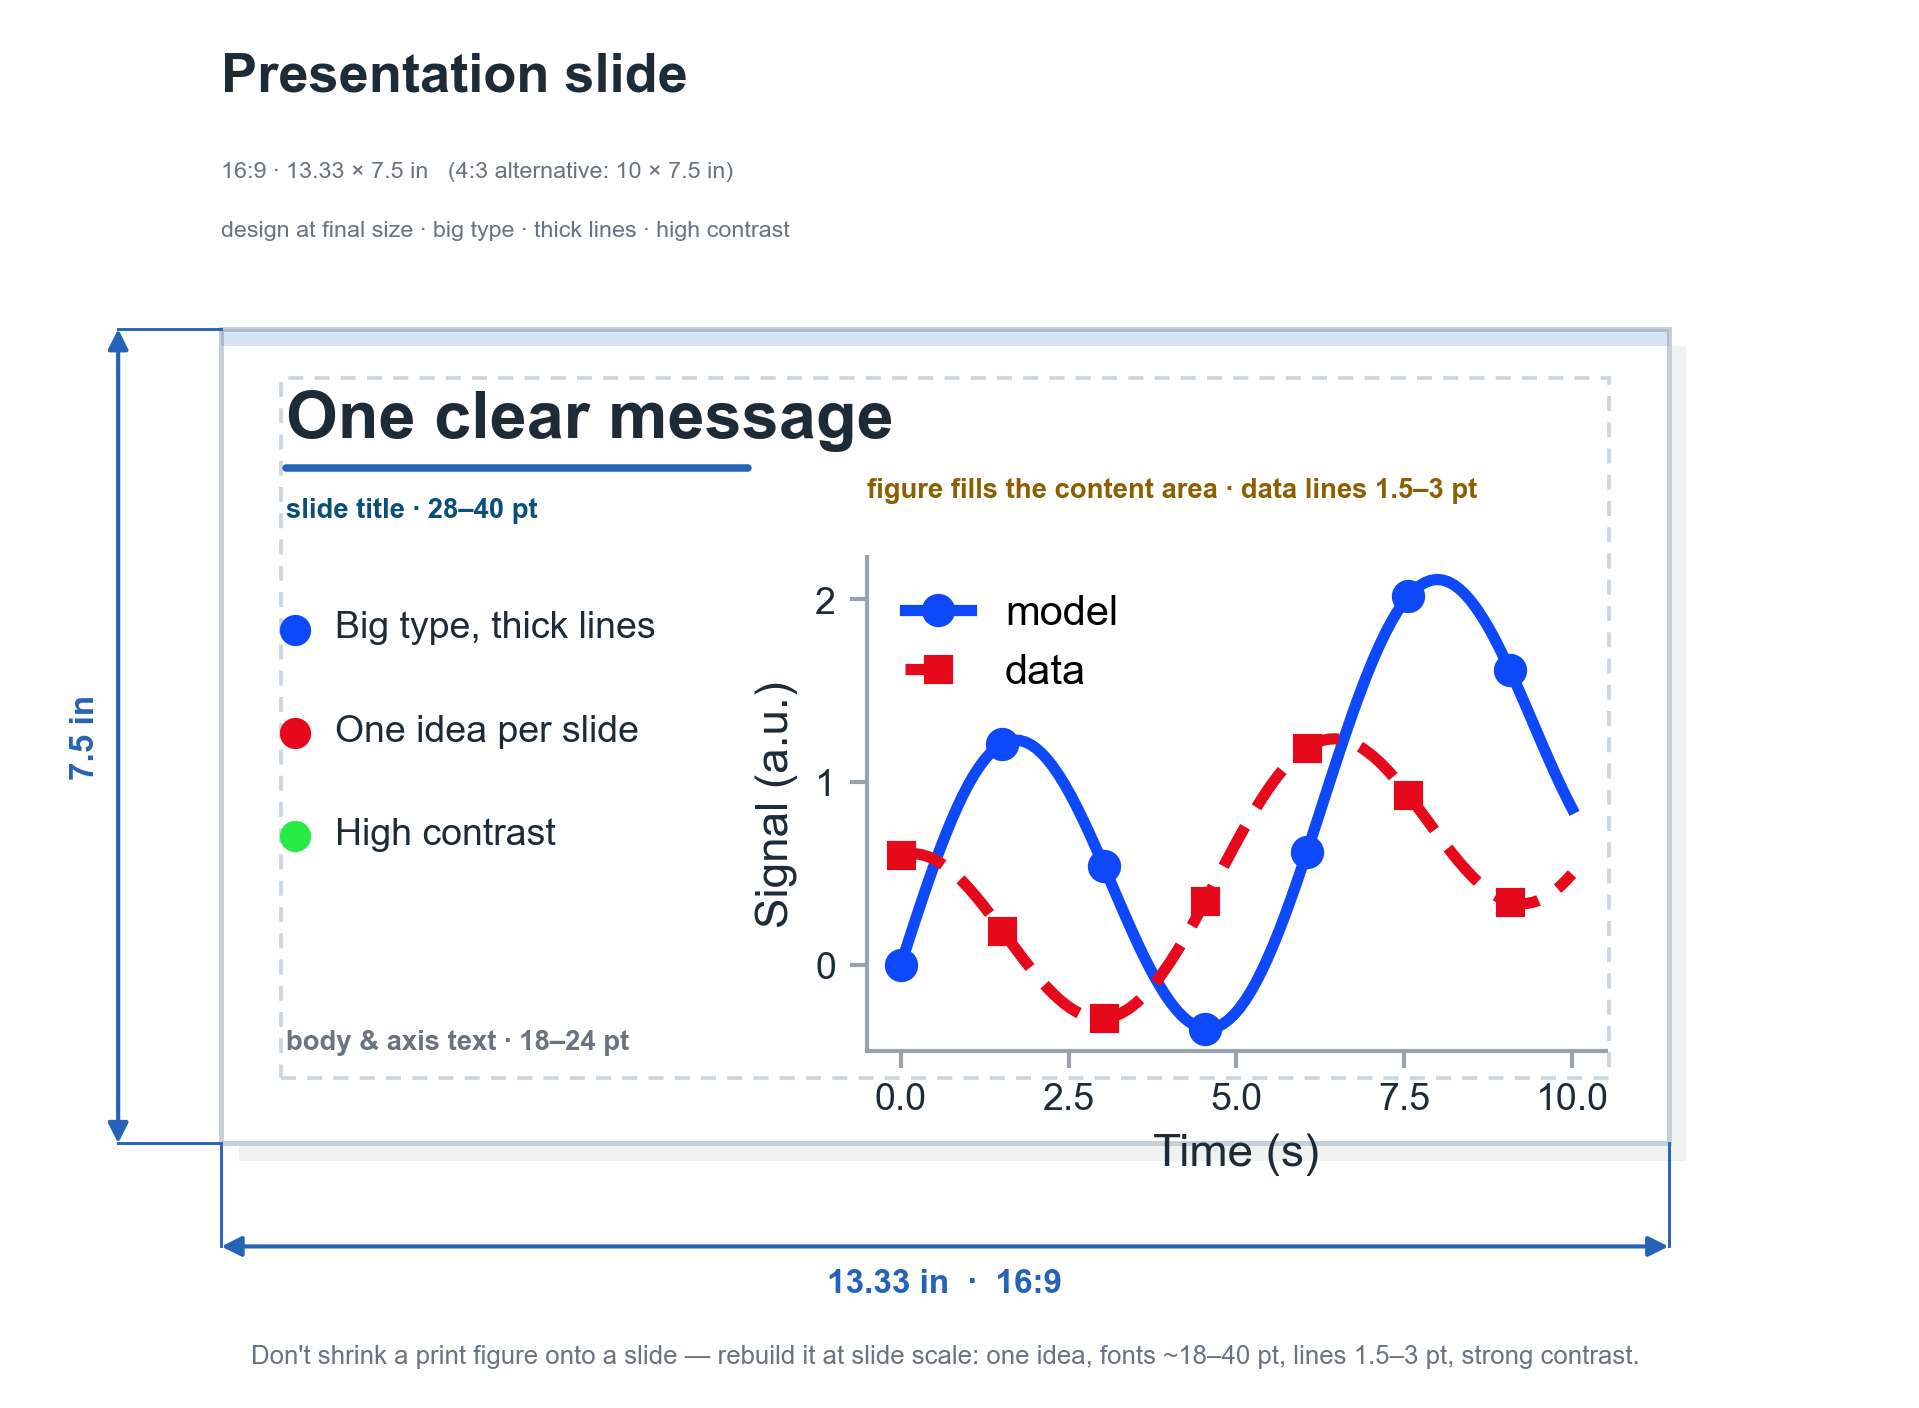
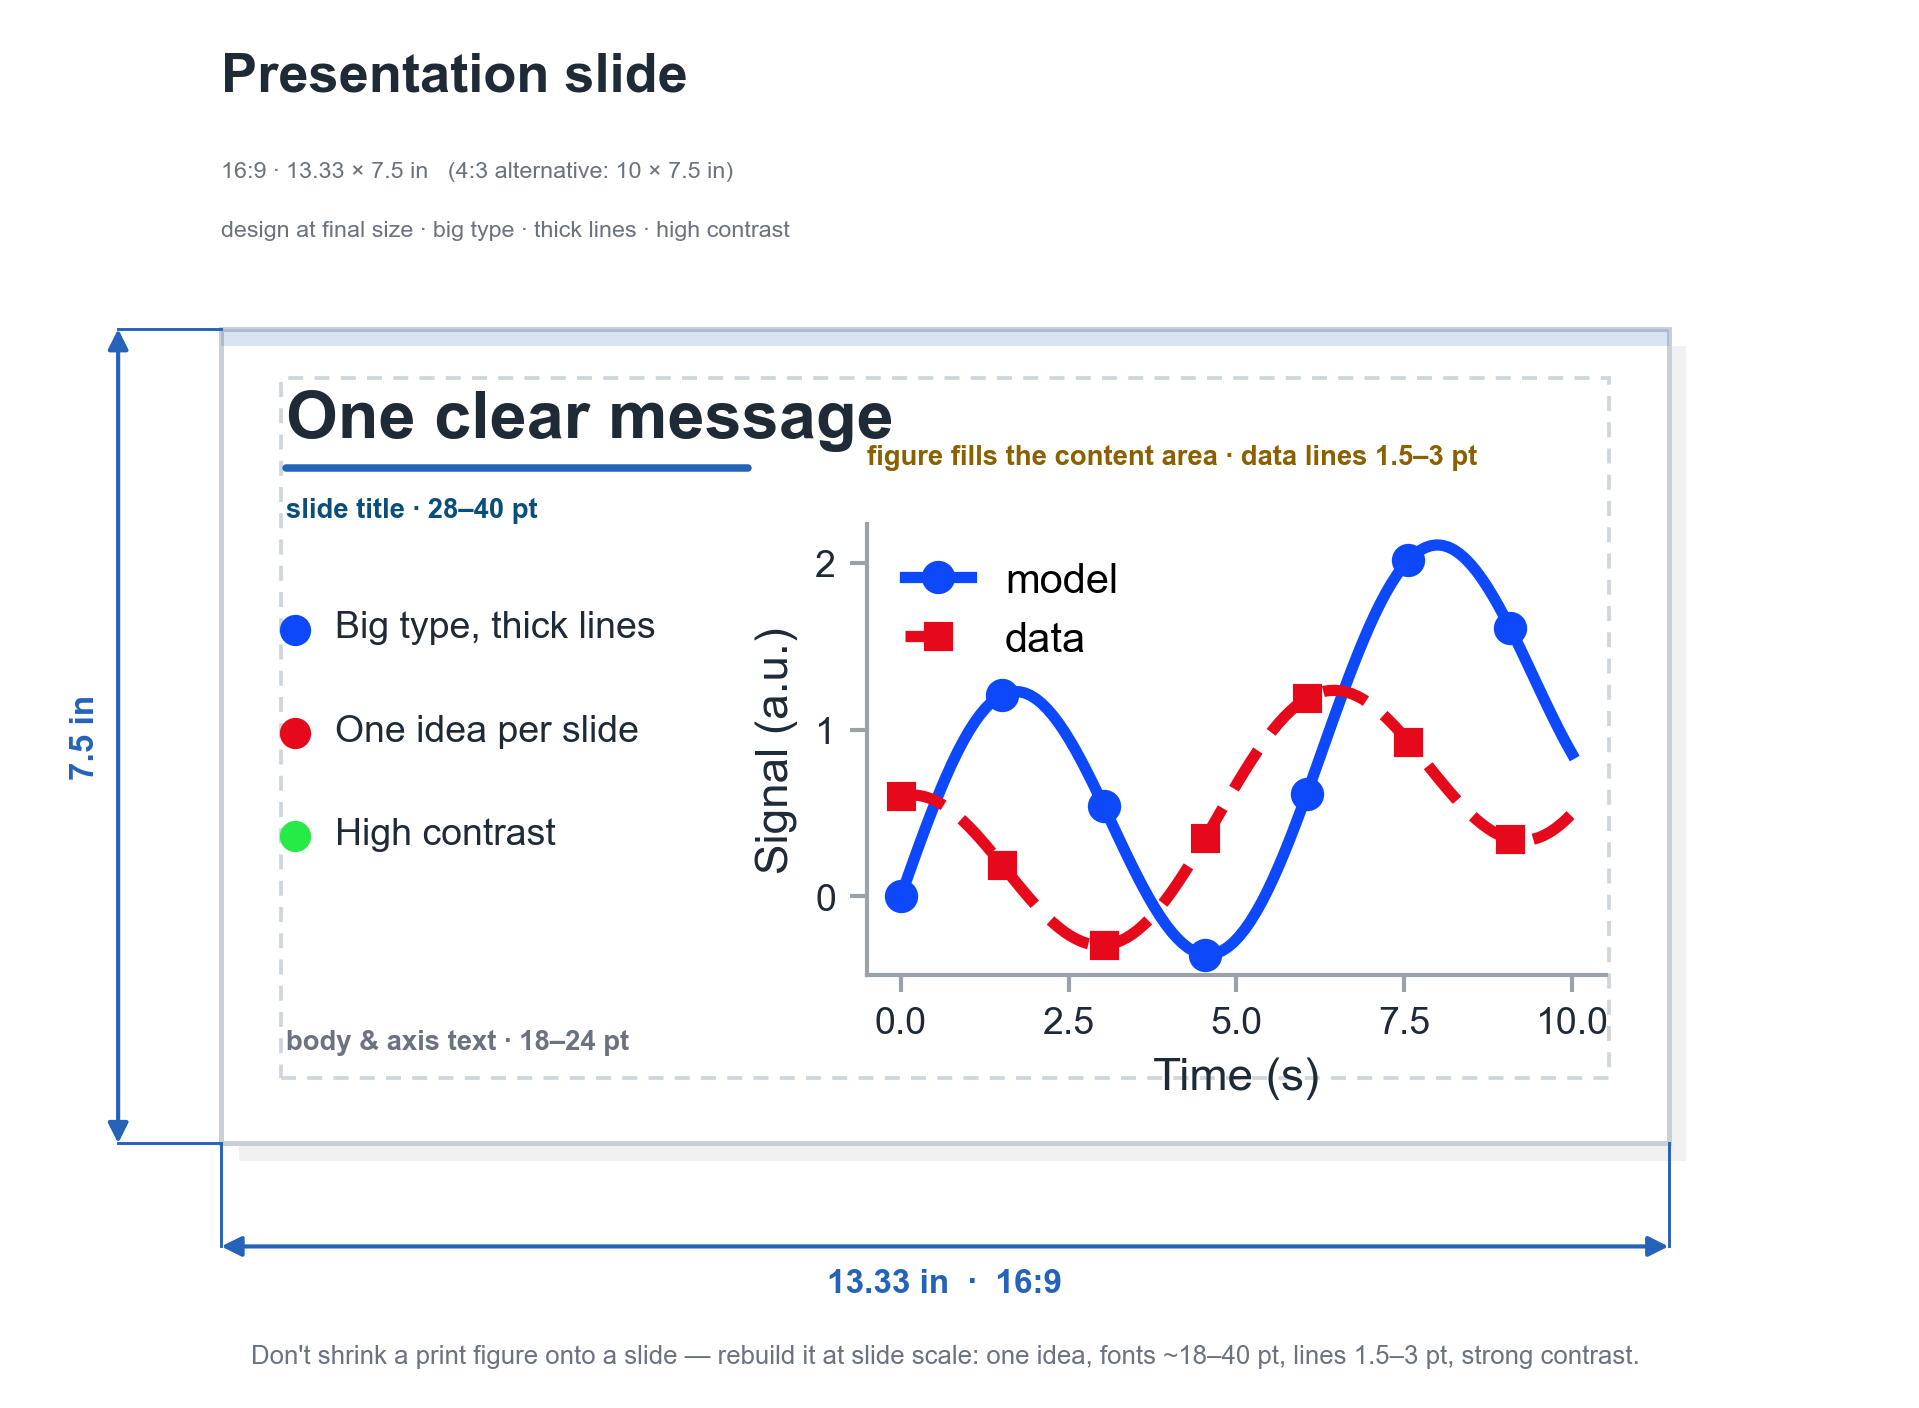
Fix figure overlaps: slide x-axis label, schematic dim labels & captions
- slide_layout: raise the inset figure so its tick labels and "Time (s)"
  stay inside the slide's safe area instead of spilling past the edge.
- journal_layout_schematic: mask the dimension labels with a white
  background so "2-column … 180 mm" (and the others) read over the greeked
  body text; increase caption line-height so the first caption rule no
  longer cuts through the bold "Figure n" lead.

diff --git a/scripts/journal_layout_schematic.py b/scripts/journal_layout_schematic.py
@@ -82,7 +82,7 @@ def greek(x0, x1, t0, t1, lh=3.0, lw=1.1, color=BODY):
         t += lh + (1.7 if end else 0.0)
         i += 1
 
-def caption(x0, x1, t0, num, n=4, lh=2.5):
+def caption(x0, x1, t0, num, n=4, lh=3.2):
     ax.text(x0, Yp(t0), f"Figure {num}", fontsize=6.6, fontweight="bold",
             color=INK, va="top", ha="left")
     ax.hlines(Yp(t0 + 0.4), x0 + 13.5, x1, lw=1.1, color="#aeb5bd",
@@ -98,9 +98,11 @@ def dim_h(x0, x1, y, label, ext=2.4, above=True):
     ax.annotate("", (x0, y), (x1, y), zorder=5,
                 arrowprops=dict(arrowstyle="<|-|>", color=ACCENT, lw=0.9,
                                 mutation_scale=8, shrinkA=0, shrinkB=0))
-    ax.text((x0 + x1) / 2, y + (2.6 if above else -2.6), label, color=ACCENT,
-            fontsize=7.2, ha="center", va=("bottom" if above else "top"),
-            fontweight="bold", zorder=6)
+    if label:
+        ax.text((x0 + x1) / 2, y + (2.6 if above else -2.6), label, color=ACCENT,
+                fontsize=7.2, ha="center", va=("bottom" if above else "top"),
+                fontweight="bold", zorder=6,
+                bbox=dict(boxstyle="round,pad=0.12", fc="white", ec="none"))
 
 def dim_v(x, y0, y1, label, ext=2.4):
     for yy in (y0, y1):
@@ -109,7 +111,8 @@ def dim_v(x, y0, y1, label, ext=2.4):
                 arrowprops=dict(arrowstyle="<|-|>", color=ACCENT, lw=0.9,
                                 mutation_scale=8, shrinkA=0, shrinkB=0))
     ax.text(x - 3.0, (y0 + y1) / 2, label, color=ACCENT, fontsize=6.8,
-            ha="center", va="center", rotation=90, fontweight="bold", zorder=6)
+            ha="center", va="center", rotation=90, fontweight="bold", zorder=6,
+            bbox=dict(boxstyle="round,pad=0.12", fc="white", ec="none"))
 
 def inset(x0, x1, t0, t1):
     a = ax.inset_axes([x0, Yp(t1), x1 - x0, t1 - t0], transform=ax.transData)
@@ -202,7 +205,8 @@ greek(*C2, 222, 258)
 #      label doesn't fall behind a figure panel) ----
 dim_h(C1[1], C2[0], Yp(128), "", ext=1.2)
 ax.text((C1[1] + C2[0]) / 2 + 4.5, Yp(128), "4 mm gutter", color=ACCENT,
-        fontsize=6.0, ha="left", va="center", fontweight="bold")
+        fontsize=6.0, ha="left", va="center", fontweight="bold",
+        bbox=dict(boxstyle="round,pad=0.12", fc="white", ec="none"))
 dim_h(0, W, Yp(269), "210 mm trim", above=False)
 
 # ---- numbered badges on the page (always top-right of their target) ----

diff --git a/scripts/slide_layout.py b/scripts/slide_layout.py
@@ -100,7 +100,8 @@ def render():
             color=SUB, fontweight="bold", va="top", zorder=4)
 
     # ---- the figure fills the content area ----------------------------------
-    fx0, fy0, fw, fh = 5.95, 0.85, 6.8, 4.55   # nudged right of the bullet column
+    fx0, fy0, fw, fh = 5.95, 1.55, 6.8, 4.15   # right of bullets; raised so the
+    #                                            x-axis label stays inside the safe area
     sub = ax.inset_axes([fx0, fy0, fw, fh], transform=ax.transData)
     sub.set_zorder(3); slide_plot(sub)
     ax.text(fx0, fy0 + fh + 0.5, "figure fills the content area · data lines 1.5–3 pt",
